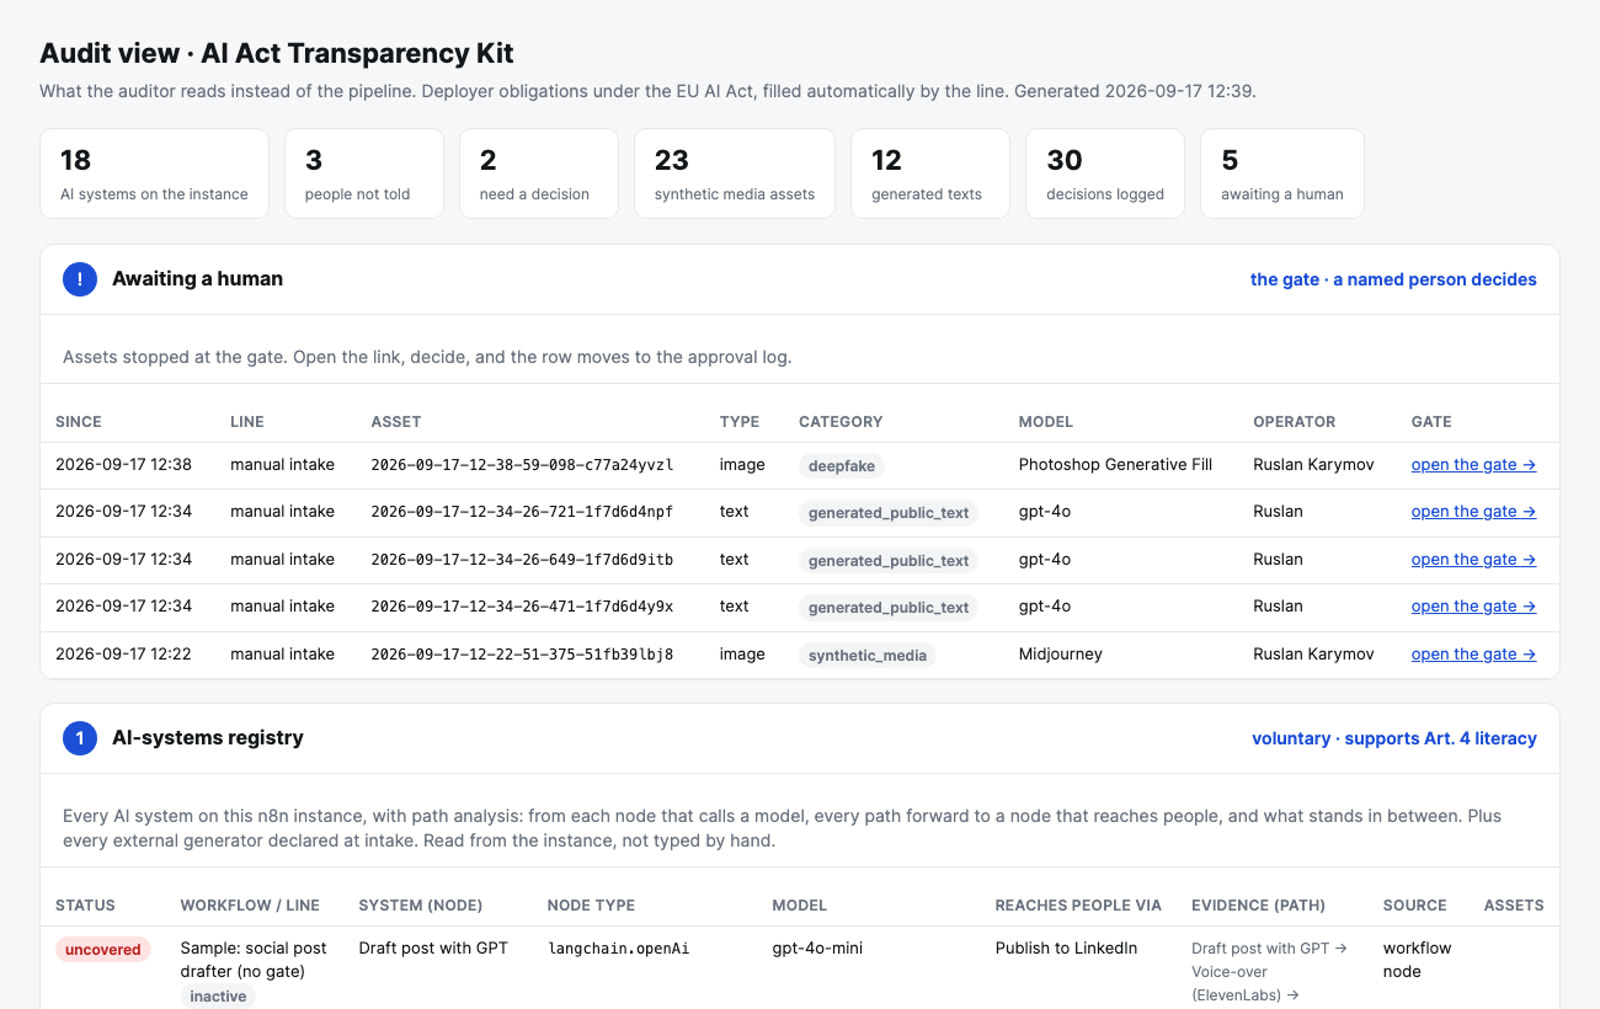
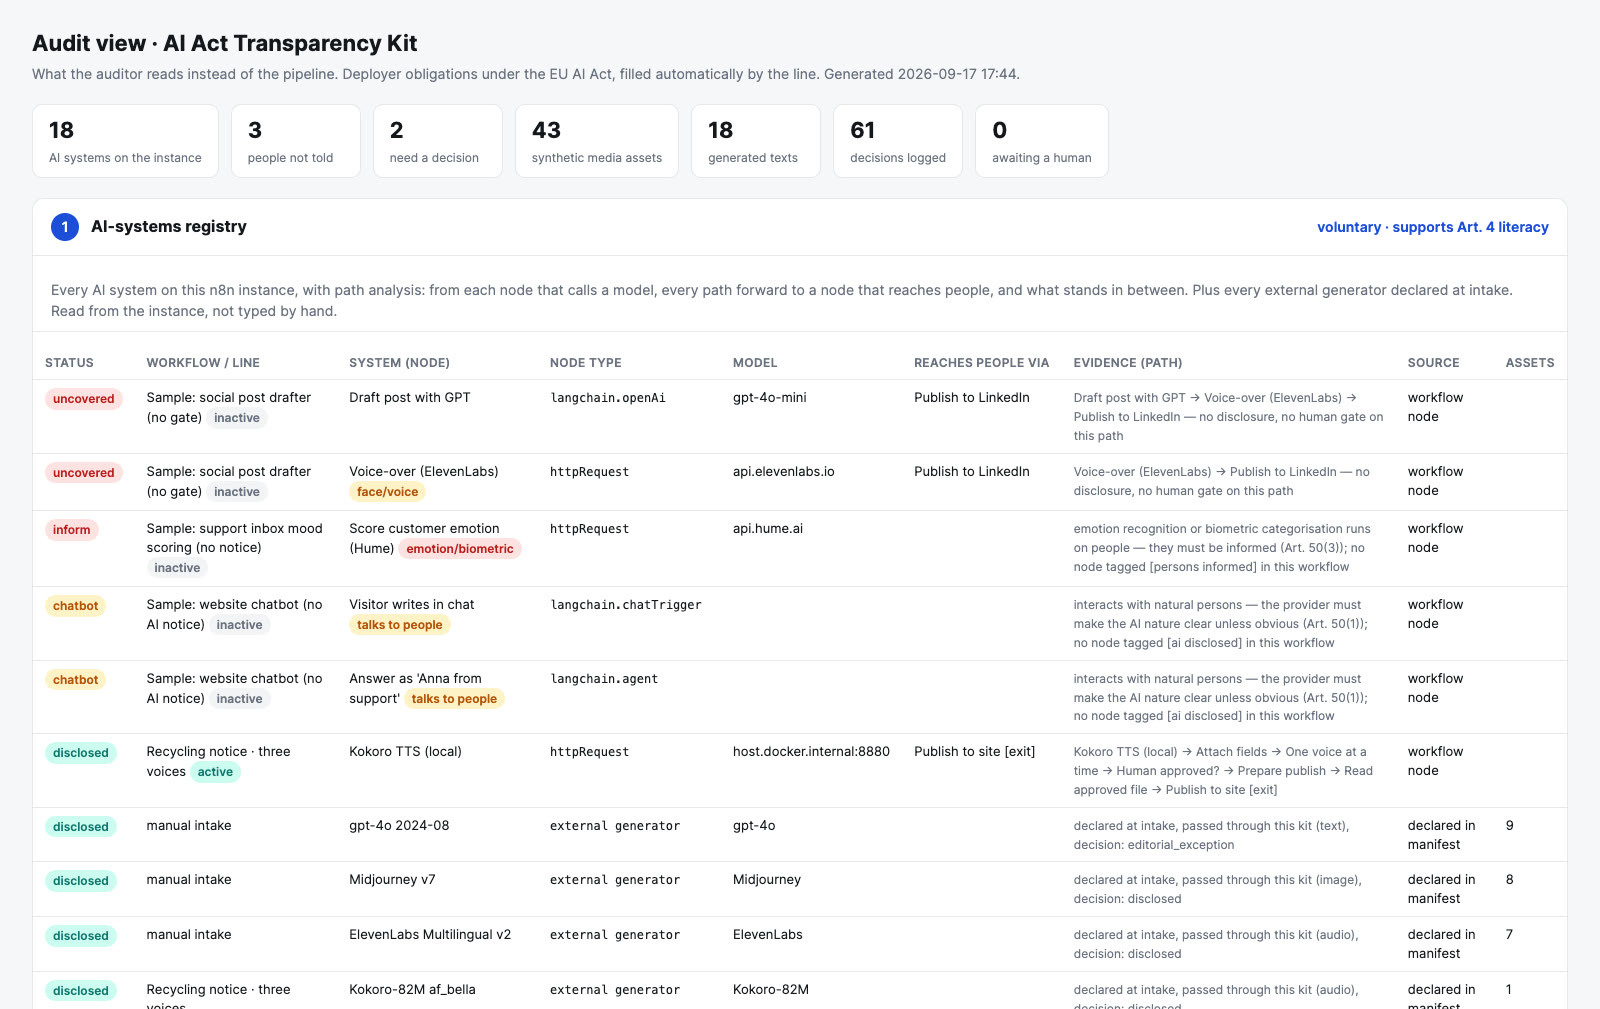
AI Act case: Slack gate, hash-chained ledger, docker compose install, deck link; refreshed audit view and hero

diff --git a/index.html b/index.html
@@ -737,30 +737,30 @@ window.CASES = [
     {src:'assets/w-pipeline-selector.jpg',cls:'',cap:'Camera slot 1. The node that would pick the concepts, with its rubric and threshold as widgets.'},
     {src:'assets/w-pipeline-inbox.jpg',cls:'',cap:'Camera slot 5. The one human node on the map: an n8n send-and-wait-for-approval step with a four-hour timeout.'}
   ],
-  links:[{t:'Open the map',u:'https://karusrus.github.io/pipeline-map/'},{t:'Source on GitHub',u:'https://github.com/karusrus/pipeline-map'},{t:'Line 2: the same gate producing evidence',u:'https://karusrus.github.io/transparency-kit/'}]
+  links:[{t:'Open the map',u:'https://karusrus.github.io/pipeline-map/'},{t:'Source on GitHub',u:'https://github.com/karusrus/pipeline-map'},{t:'AI Act Transparency Kit: the same gate, with a ledger',u:'https://karusrus.github.io/transparency-kit/'}]
 },
 {
   id:'ai-act-kit', size:'wide2', cat:'automation',
-  title:'AI Act Transparency Kit — the same gate, now producing evidence',
+  title:'AI Act Transparency Kit — the human is the gate, the ledger cannot be edited',
   client:'Personal project, open source', role:'System design, n8n, governance, front-end', years:'2026',
   cover:'assets/w-aiact-audit.png', pos:'50% 0%',
-  sub:'Every AI asset stops at a named human, and the auditor’s page fills itself. An n8n module dropped in front of any publishing step',
-  tags:['AI operations','Human approval gate','EU AI Act','n8n','Governance','Provenance','Path analysis','Open source'],
-  challenge:'From 2 August 2026 a company that publishes AI-generated media or text has to disclose it, and a real person has to be able to show who approved what. Most teams answer with a policy document. A policy is not a property of the line — it is a report written before the audit.',
+  sub:'An n8n module dropped in front of any publishing step: classify under Article 50, label, ask a person in Slack, write an append-only record, keep a registry of every AI system on the instance',
+  tags:['AI operations','Human approval gate','EU AI Act','n8n','Slack','Postgres','Governance','Path analysis','Open source'],
+  challenge:'From 2 August 2026 a company that publishes AI-generated media or text has to disclose it, and a real person has to be able to show who approved what and that the record was not edited afterwards. Most teams answer with a policy document. A policy is not a property of the line — it is a report written before the audit.',
   bullets:[
-    'A module any n8n line calls before publishing: classification under Article 50, a disclosure sentence in the asset’s language, a burnt-in label, a provenance manifest, then a stop until a named person decides — approve, editorial exception, return',
-    'A registry of every AI system on the whole instance, read through the n8n API, with path analysis: from each model to each node that reaches people, and what stood in between — disclosed, editorial, verify, uncovered, likeness',
-    'The auditor’s page renders itself from the files the line writes: awaiting a human, the registry, synthetic media and deep fakes, generated text, the approval log',
-    'A real line with the module inside: text → three local synthetic voices → the gate → publish only what was approved; and a typical marketing line without a gate, flagged red with the exact path',
-    'The map that pitched the first pipeline now draws this one from the live workflow export — the picture is generated, not drawn'
+    'A module any n8n line calls before publishing: classification under Art. 50 and Art. 3(60) (a real place altered is a deep fake, no person needed), a fixed disclosure sentence per language, a burnt-in label, a provenance manifest — and a stop until a named person decides',
+    'The gate is a Slack thread: the kit posts the asset with the labelled file, polls the thread, reads approve / editorial / return, and takes the reviewer’s identity from Slack, not from a text field. Outbound traffic only, no public n8n address',
+    'A Postgres ledger where decisions are append-only and hash-chained by database triggers; verify_chain() runs on every audit render',
+    'A registry of every AI system on the whole instance, read through the n8n API, with path analysis: from each model to each node that reaches people — disclosed, uncovered, chatbot (Art. 50(1)), inform (Art. 50(3))',
+    'Installs with docker compose up -d: Postgres, the ffmpeg label service and stock n8n; no model inside, it works with whatever generators the line already calls'
   ],
-  result:'Six AI systems found on the demo instance, two of them reaching people uncovered; four decisions logged with reasons. Three independent reviews (an AI Act auditor, an n8n architect, a hiring manager) are published with the fixes they led to. Not legal advice; the deployer side of Article 50 only.',
+  result:'On the demo instance: 61 decisions in a verified hash chain, 18 AI systems found across 6 workflows, 5 paths flagged (2 uncovered, 2 chatbot, 1 inform). One reviewer, one day — the numbers prove the mechanics, not a production benchmark. Three independent reviews (an AI Act auditor, an n8n architect, a hiring manager) are published with the fixes they led to. Not legal advice; the deployer side of Article 50 only.',
   gallery:[
-    {src:'assets/w-aiact-audit.png',cls:'w',cap:'The auditor’s page. Counters, then five blocks tied to the articles they answer, every row written by the line.'},
-    {src:'assets/w-aiact-map.png',cls:'',cap:'The line on the map: Kokoro voices → Loop → AI Act gate → human approved? → publish. The dashed wire is the decision coming back from the module.'},
-    {src:'assets/w-aiact-gate.png',cls:'',cap:'The gate. One asset, its category and obligations, the disclosure sentence, three decisions.'}
+    {src:'assets/w-aiact-audit.png',cls:'w',cap:'The auditor’s page. Counters, then the registry with path analysis, synthetic media and deep fakes, generated text, the approval log — every row written by the line.'},
+    {src:'assets/w-aiact-slack.png',cls:'',cap:'The gate in Slack. The labelled photo of Varna with a building that is not there, and my own portrait with a consent reference; the reply in the thread is the decision, the reviewer is whoever Slack says it is.'},
+    {src:'assets/w-aiact-map.png',cls:'',cap:'The line on the map: three local voices → Loop → AI Act gate → human approved? → publish. The dashed wire is the decision coming back from the module.'}
   ],
-  links:[{t:'Open the case',u:'https://karusrus.github.io/transparency-kit/'},{t:'Live map',u:'https://karusrus.github.io/pipeline-map/?import=docs/transparency-kit.bundle.json&slot=2'},{t:'Source on GitHub',u:'https://github.com/karusrus/transparency-kit'}]
+  links:[{t:'Open the case',u:'https://karusrus.github.io/transparency-kit/'},{t:'Ten-slide deck',u:'https://karusrus.github.io/transparency-kit/deck/'},{t:'Live map',u:'https://karusrus.github.io/pipeline-map/?import=docs/transparency-kit.bundle.json&slot=2'},{t:'Source on GitHub',u:'https://github.com/karusrus/transparency-kit'}]
 },
 {
   id:'scanner', size:'tall', cat:'product',
